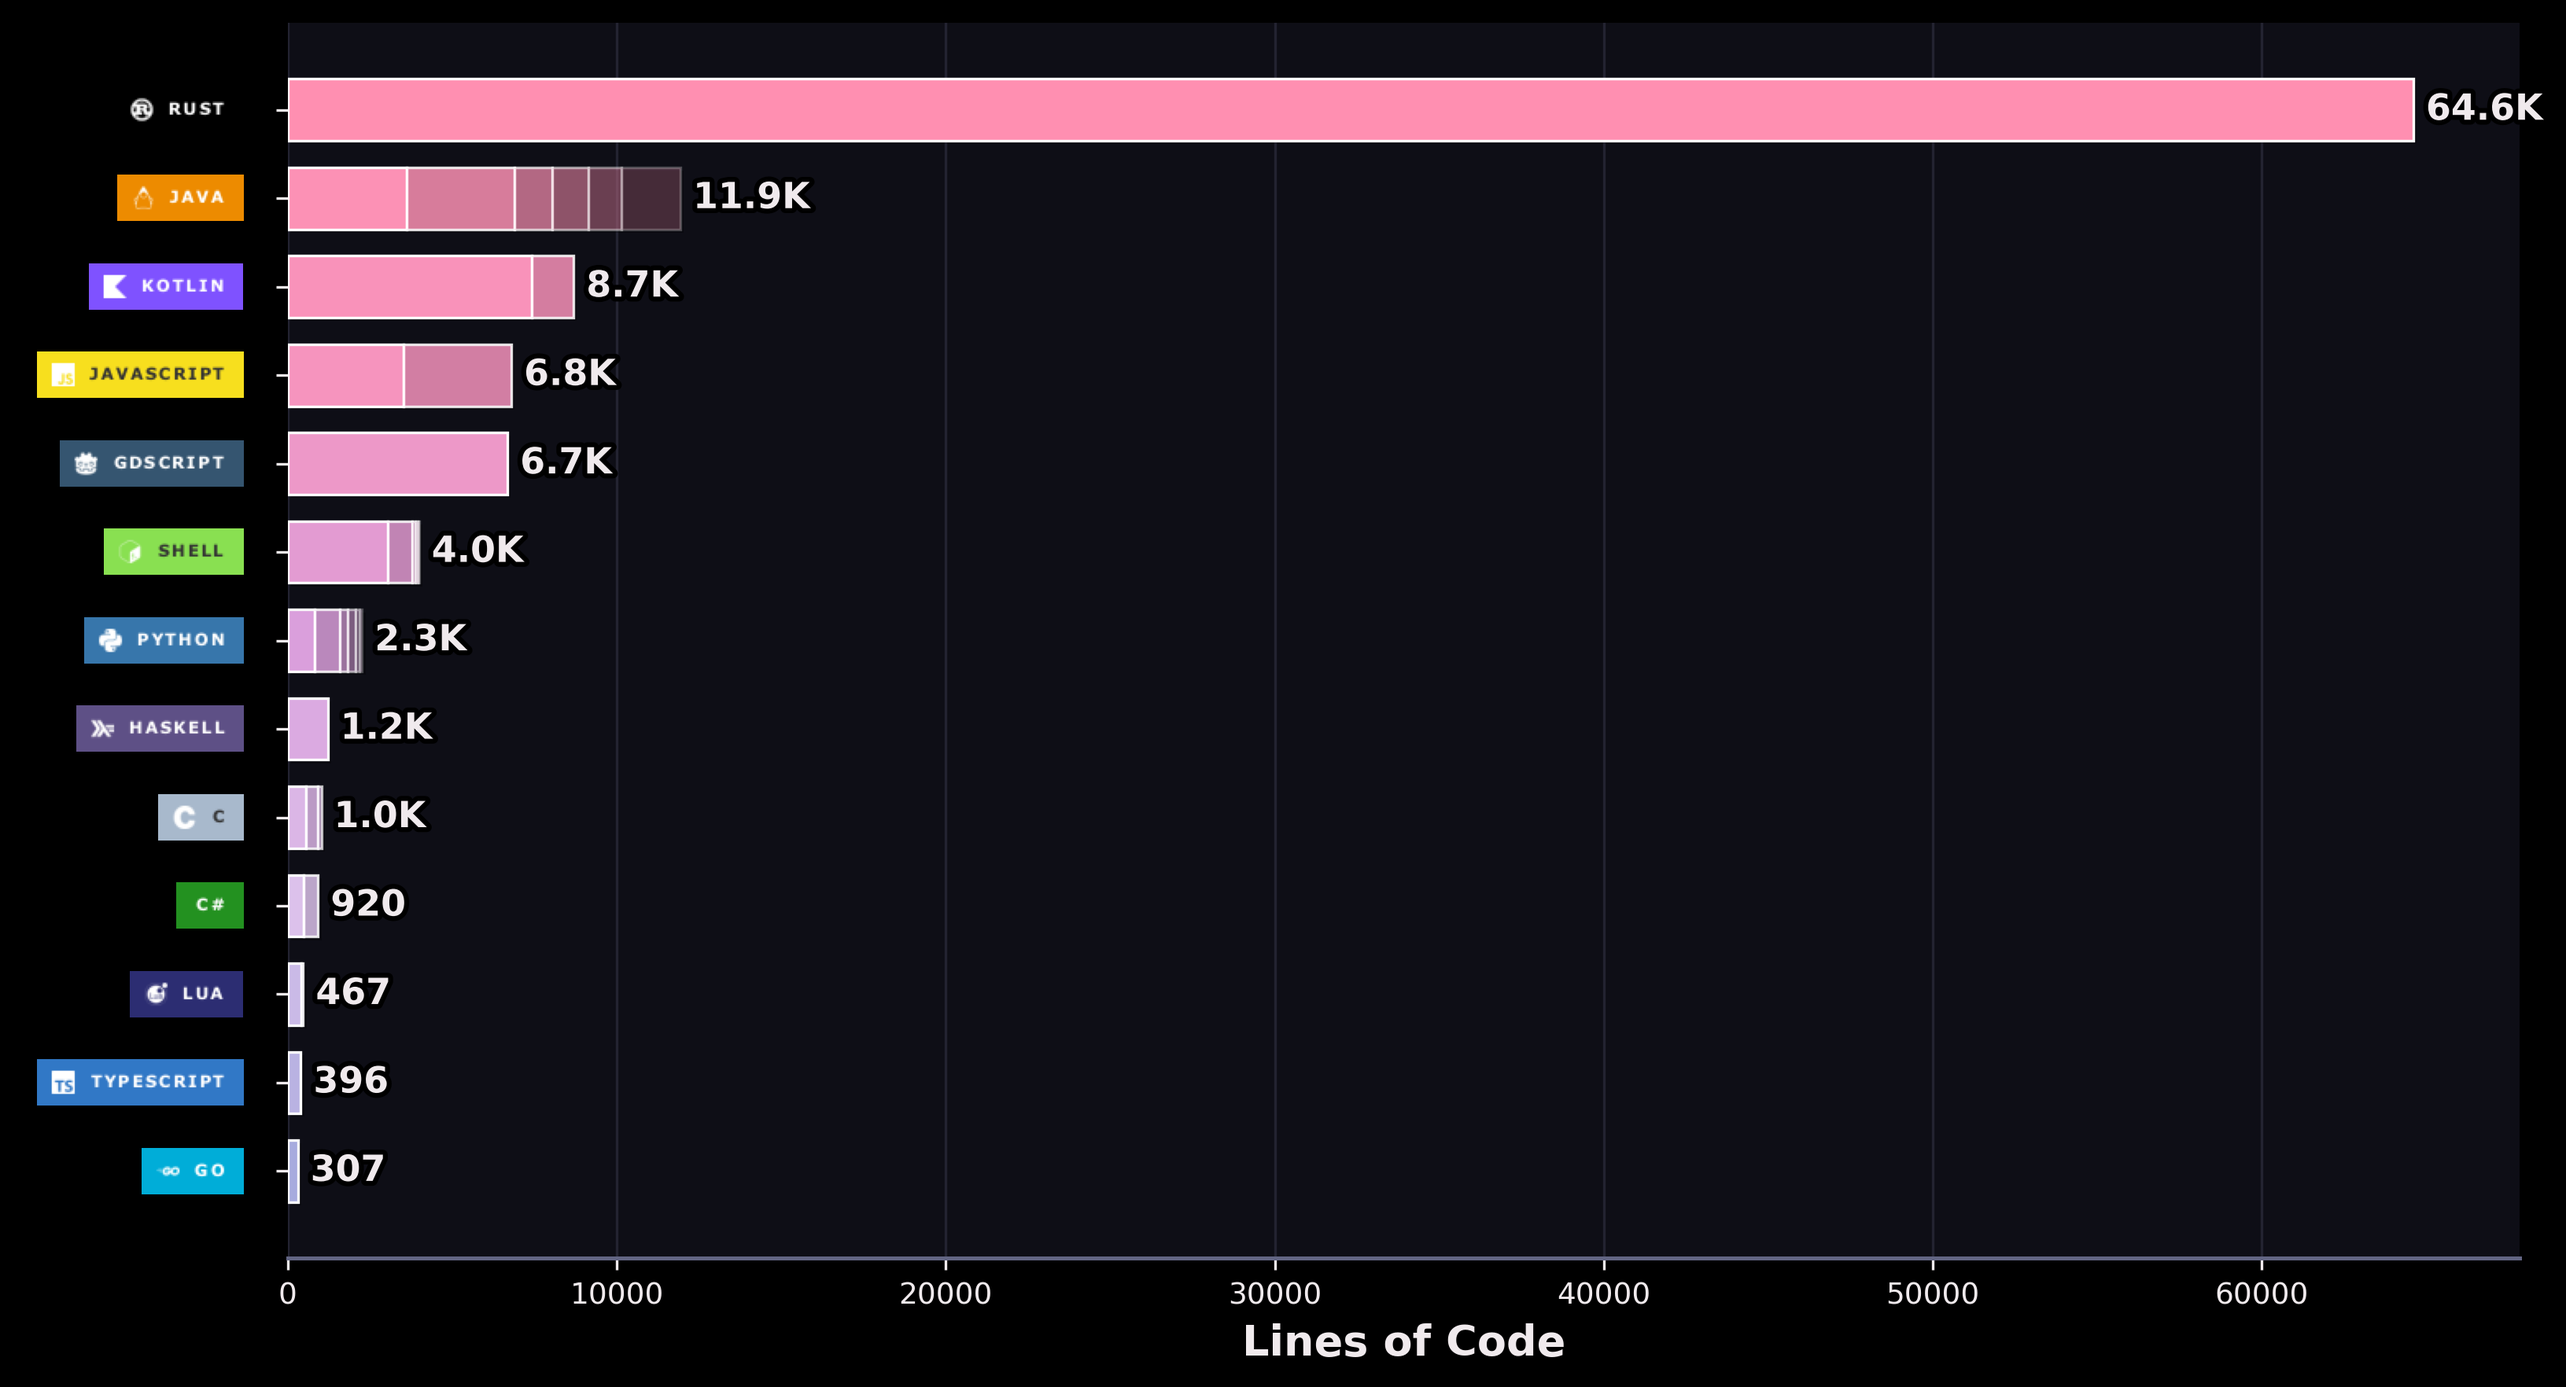
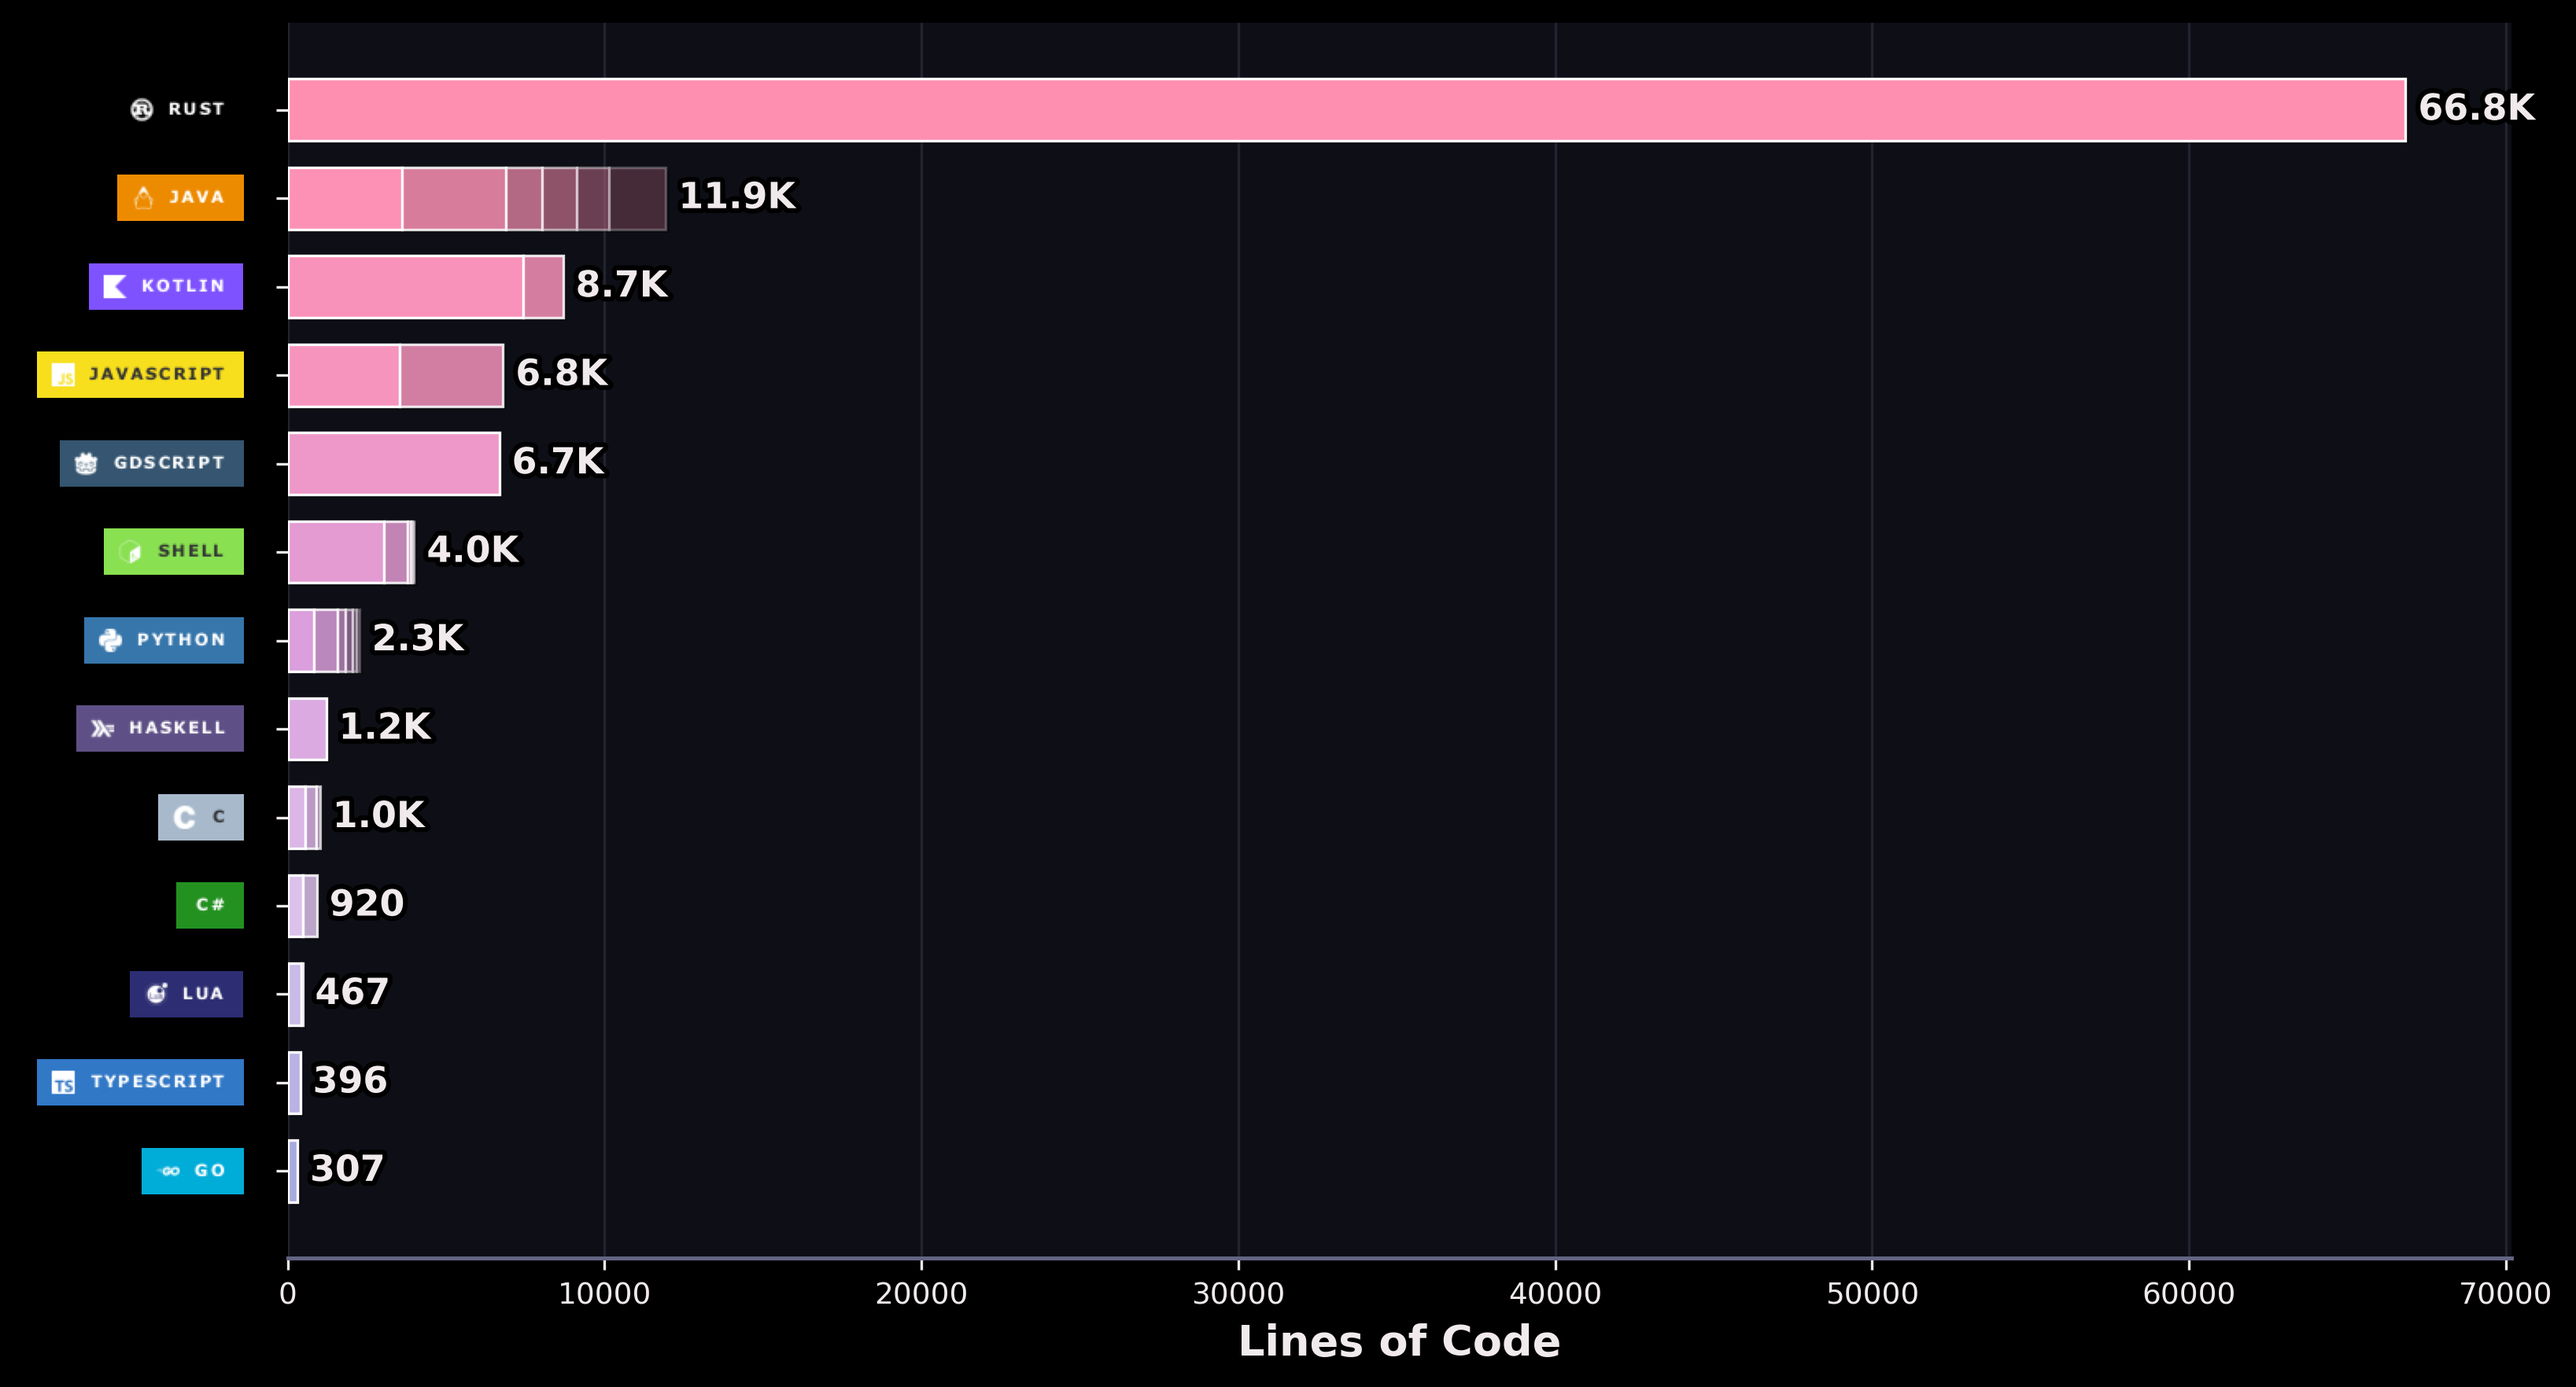
Update language statistics

diff --git a/README.md b/README.md
@@ -18,13 +18,13 @@
 
 |    | Language | Lines of code | Share |
 |:--:|:---------|----------:|:------|
-| 🥇 | Rust | 64.6K | 🌸🌸🌸🌸🌸🌸🌸🌸🌸🌸 59.1% |
-| 🥈 | Java | 11.9K | 🌸🌸⬜⬜⬜⬜⬜⬜⬜⬜ 10.9% |
-| 🥉 | Kotlin | 8.7K | 🌸⬜⬜⬜⬜⬜⬜⬜⬜⬜ 8.0% |
-| 🌸 | JavaScript | 6.8K | 🌸⬜⬜⬜⬜⬜⬜⬜⬜⬜ 6.2% |
-| 🌸 | GDScript | 6.7K | 🌸⬜⬜⬜⬜⬜⬜⬜⬜⬜ 6.1% |
-| 🌸 | Shell | 4.0K | 🌸⬜⬜⬜⬜⬜⬜⬜⬜⬜ 3.7% |
-| 🌸 | Python | 2.3K | 🌸⬜⬜⬜⬜⬜⬜⬜⬜⬜ 2.1% |
+| 🥇 | Rust | 66.8K | 🌸🌸🌸🌸🌸🌸🌸🌸🌸🌸 59.9% |
+| 🥈 | Java | 11.9K | 🌸🌸⬜⬜⬜⬜⬜⬜⬜⬜ 10.7% |
+| 🥉 | Kotlin | 8.7K | 🌸⬜⬜⬜⬜⬜⬜⬜⬜⬜ 7.8% |
+| 🌸 | JavaScript | 6.8K | 🌸⬜⬜⬜⬜⬜⬜⬜⬜⬜ 6.1% |
+| 🌸 | GDScript | 6.7K | 🌸⬜⬜⬜⬜⬜⬜⬜⬜⬜ 6.0% |
+| 🌸 | Shell | 4.0K | 🌸⬜⬜⬜⬜⬜⬜⬜⬜⬜ 3.6% |
+| 🌸 | Python | 2.3K | 🌸⬜⬜⬜⬜⬜⬜⬜⬜⬜ 2.0% |
 | 🌸 | Haskell | 1.2K | 🌸⬜⬜⬜⬜⬜⬜⬜⬜⬜ 1.1% |
 |    | other 🌱 | 3.1K | 🌸⬜⬜⬜⬜⬜⬜⬜⬜⬜ 2.8% |
 
